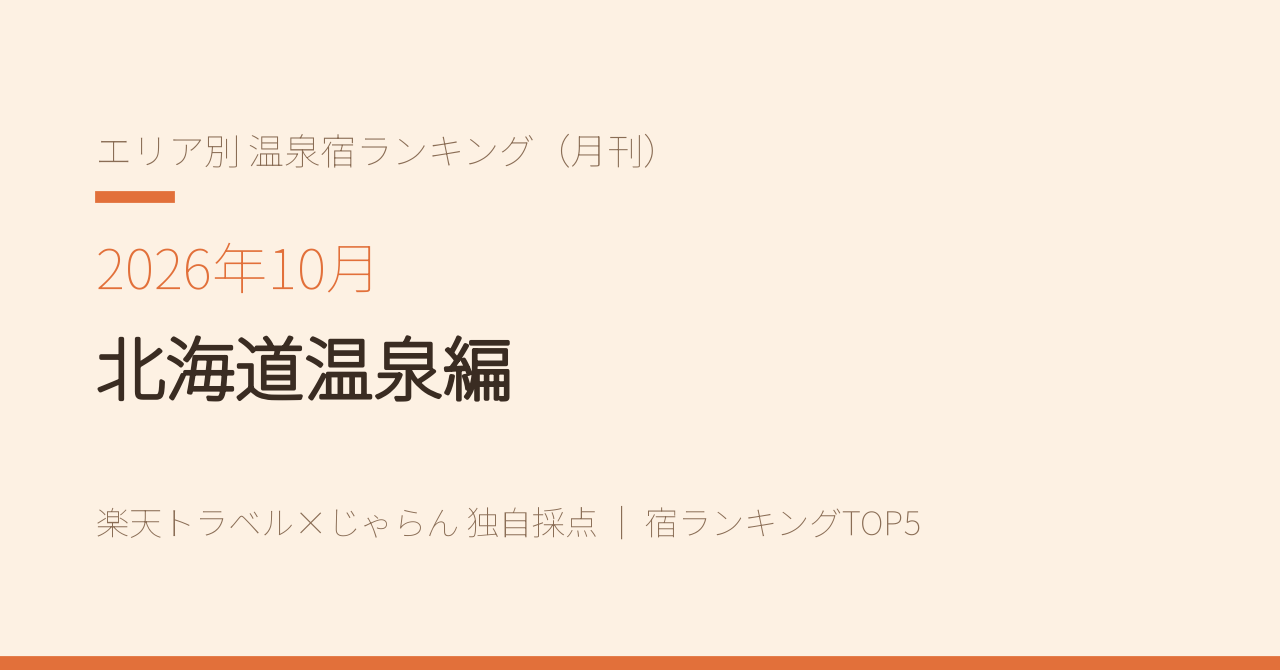
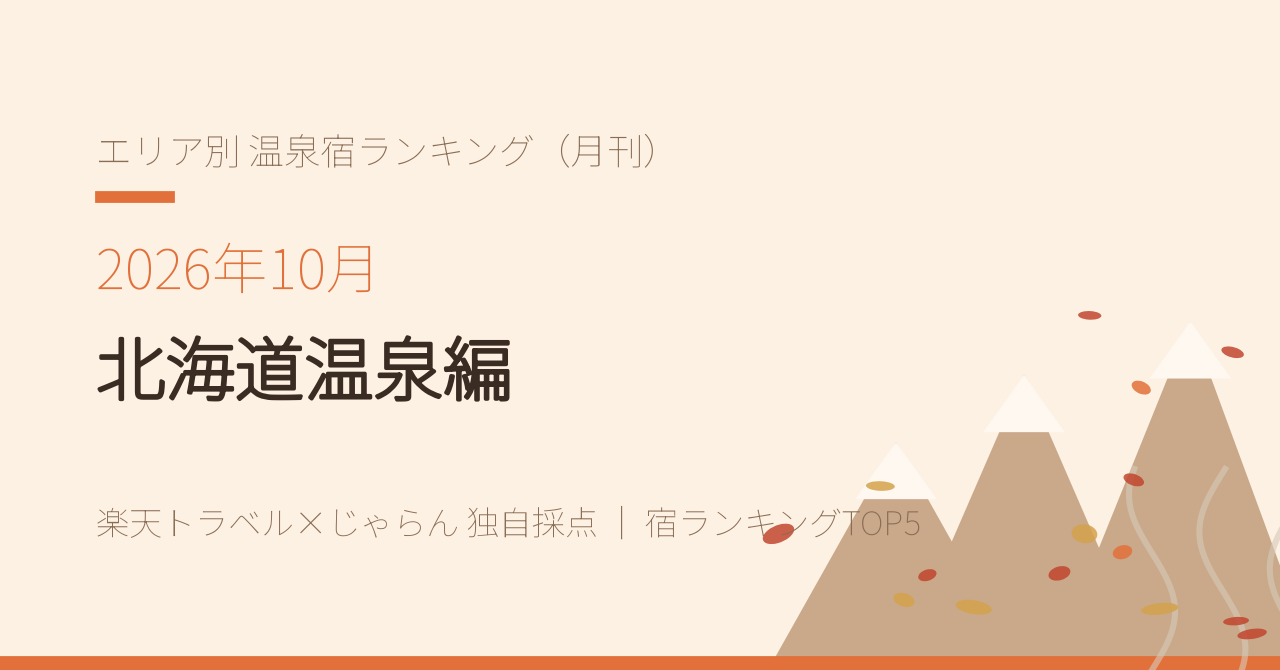
feat(4-onsen): サムネイルに北海道らしい自作イラストを追加
写真は著作権リスクがあるため、matplotlibの図形描画で雪山(大雪山系)・
紅葉・温泉の湯気を表現。make_eyecatch.pyにモチーフ機構(MOTIFS)を追加し、
"hokkaido"を第一弾として実装。他エリアは追加時にモチーフを増やす想定。

diff --git a/dev/4-onsen/assets/make_eyecatch.py b/dev/4-onsen/assets/make_eyecatch.py
@@ -3,19 +3,25 @@
 
 使い方:
   python make_eyecatch.py                              → 北海道編を assets/2026-10/eyecatch.png に生成
-  python make_eyecatch.py "2026年11月" "東北編" assets/2026-11/eyecatch.png
+  python make_eyecatch.py "2026年11月" "東北編" assets/2026-11/eyecatch.png [motif]
+
+motif はエリアを連想させる簡単な自作イラスト（写真は著作権リスクがあるため使わない）。
+現状用意しているのは "hokkaido"（雪山＋紅葉＋湯気）のみ。他エリアは追加時にモチーフを増やす。
 
 1280x670（note推奨 1.91:1）。マガジン表紙（make_cover.py）と同じ明るい配色。
 """
 from __future__ import annotations
 
+import random
 import sys
 from pathlib import Path
 
 import matplotlib
 matplotlib.use("Agg")
+import matplotlib.patches as mpatches  # noqa: E402
 import matplotlib.pyplot as plt  # noqa: E402
 import matplotlib.patheffects as pe  # noqa: E402
+import numpy as np  # noqa: E402
 from matplotlib import font_manager  # noqa: E402
 
 for _name in ("Noto Sans CJK JP", "Noto Sans JP", "IPAexGothic",
@@ -35,7 +41,46 @@ MUTE = "#8a6d55"
 SERIES = "エリア別 温泉宿ランキング（月刊）"
 
 
-def eyecatch(label: str, subtitle: str, out: Path) -> None:
+def _draw_hokkaido_motif(ax) -> None:
+    """大雪山系の雪山・紅葉・温泉の湯気をイメージした自作イラスト（右側、x=0.60〜）。"""
+    mountain_color = "#c9a98a"
+    snow_color = "#fff8f0"
+    leaf_colors = ["#e2703a", "#d4a24c", "#c1452f"]
+
+    peaks = [
+        ((0.60, 0.0), (0.70, 0.34), (0.80, 0.0)),
+        ((0.70, 0.0), (0.80, 0.44), (0.90, 0.0)),
+        ((0.82, 0.0), (0.93, 0.52), (1.03, 0.0)),
+    ]
+    for base_l, apex, base_r in peaks:
+        ax.add_patch(mpatches.Polygon([base_l, apex, base_r], closed=True,
+                                       facecolor=mountain_color, edgecolor="none", zorder=1))
+        sx, sy = apex
+        snow = [(sx - 0.032, sy - 0.085), (sx, sy), (sx + 0.032, sy - 0.085)]
+        ax.add_patch(mpatches.Polygon(snow, closed=True, facecolor=snow_color,
+                                       edgecolor="none", zorder=2))
+
+    rng = random.Random(4)
+    for _ in range(16):
+        x = rng.uniform(0.60, 1.05)
+        y = rng.uniform(0.05, 0.58)
+        w = rng.uniform(0.012, 0.02)
+        h = w * rng.uniform(1.4, 1.8)
+        angle = rng.uniform(0, 360)
+        color = rng.choice(leaf_colors)
+        ax.add_patch(mpatches.Ellipse((x, y), w, h, angle=angle, facecolor=color,
+                                       edgecolor="none", alpha=0.85, zorder=3))
+
+    for i, x0 in enumerate((0.90, 0.955, 1.01)):
+        ys = np.linspace(0.0, 0.30, 40)
+        xs = x0 + 0.018 * np.sin(ys * 18 + i)
+        ax.plot(xs, ys, color="#d8c9b8", linewidth=2.2, alpha=0.6, zorder=2)
+
+
+MOTIFS = {"hokkaido": _draw_hokkaido_motif}
+
+
+def eyecatch(label: str, subtitle: str, out: Path, motif: str | None = None) -> None:
     W, H = 1280, 670
     fig = plt.figure(figsize=(W / 200, H / 200), dpi=200)
     ax = fig.add_axes([0, 0, 1, 1])
@@ -43,6 +88,8 @@ def eyecatch(label: str, subtitle: str, out: Path) -> None:
     ax.set_xlim(0, 1)
     ax.set_ylim(0, 1)
     ax.add_patch(plt.Rectangle((0, 0), 1, 1, color=BG))
+    if motif and motif in MOTIFS:
+        MOTIFS[motif](ax)
     ax.add_patch(plt.Rectangle((0, 0), 1, 0.02, color=ACCENT))
     ax.add_patch(plt.Rectangle((0.075, 0.70), 0.06, 0.014, color=ACCENT))
 
@@ -67,7 +114,9 @@ if __name__ == "__main__":
     if len(sys.argv) >= 3:
         label, subtitle = sys.argv[1], sys.argv[2]
         out = Path(sys.argv[3]) if len(sys.argv) >= 4 else here / "eyecatch.png"
+        motif = sys.argv[4] if len(sys.argv) >= 5 else None
     else:
         label, subtitle = "2026年10月", "北海道温泉編"
         out = here / "2026-10" / "eyecatch.png"
-    eyecatch(label, subtitle, out)
+        motif = "hokkaido"
+    eyecatch(label, subtitle, out, motif)
